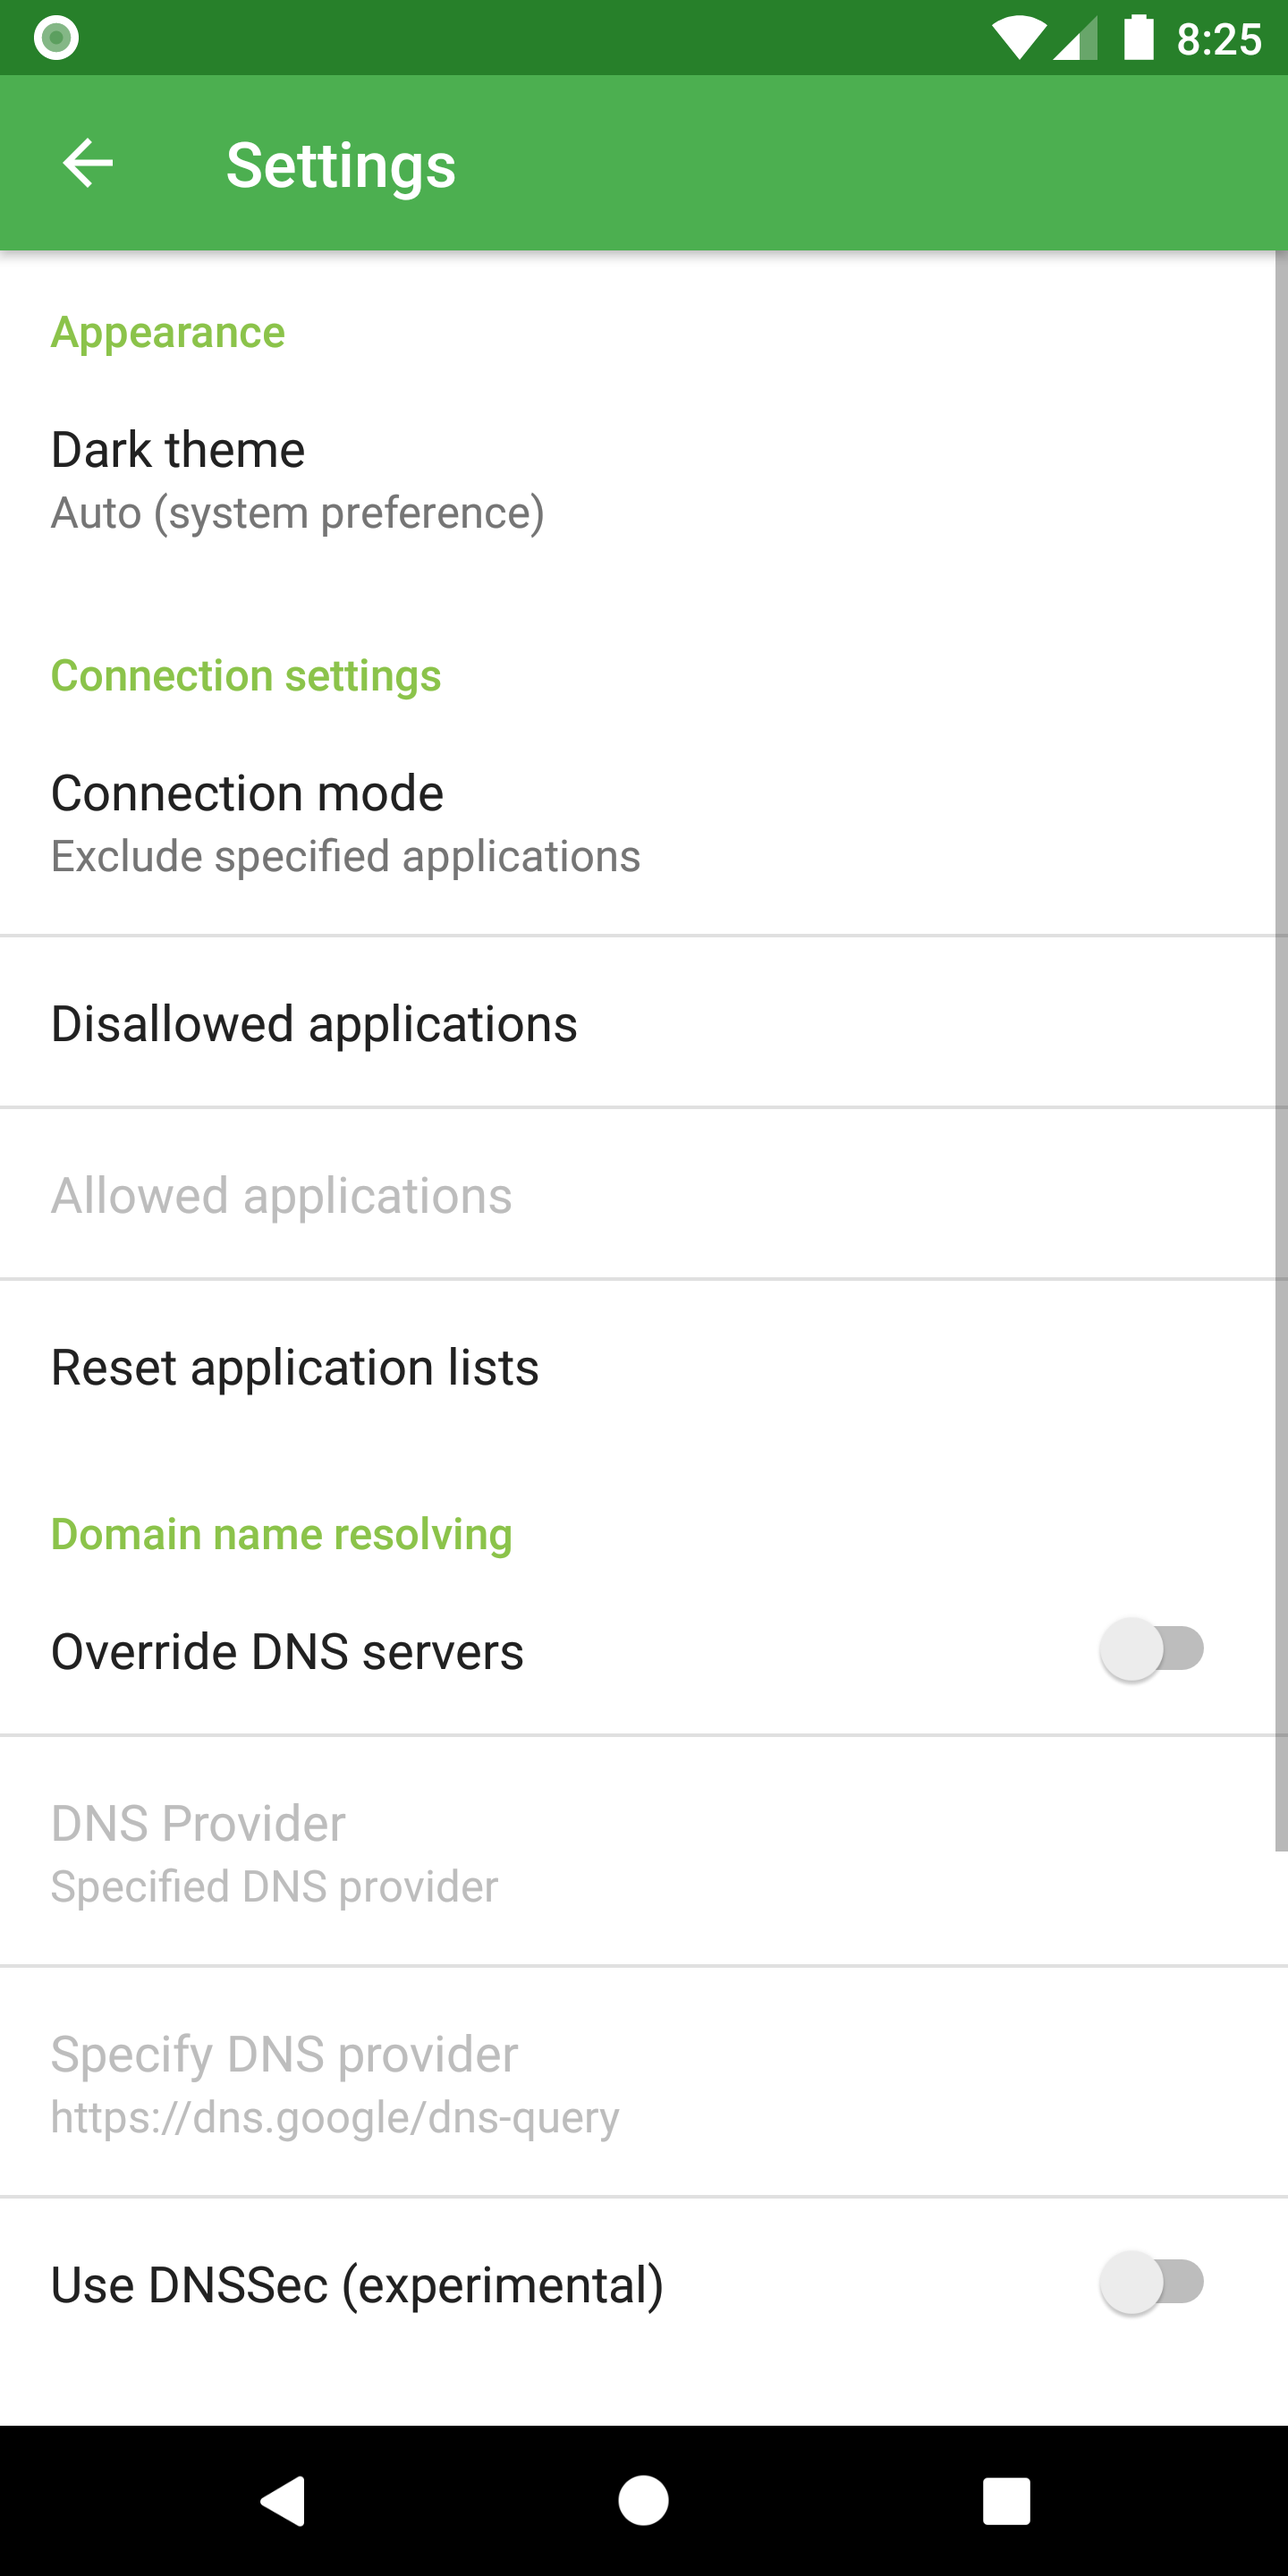
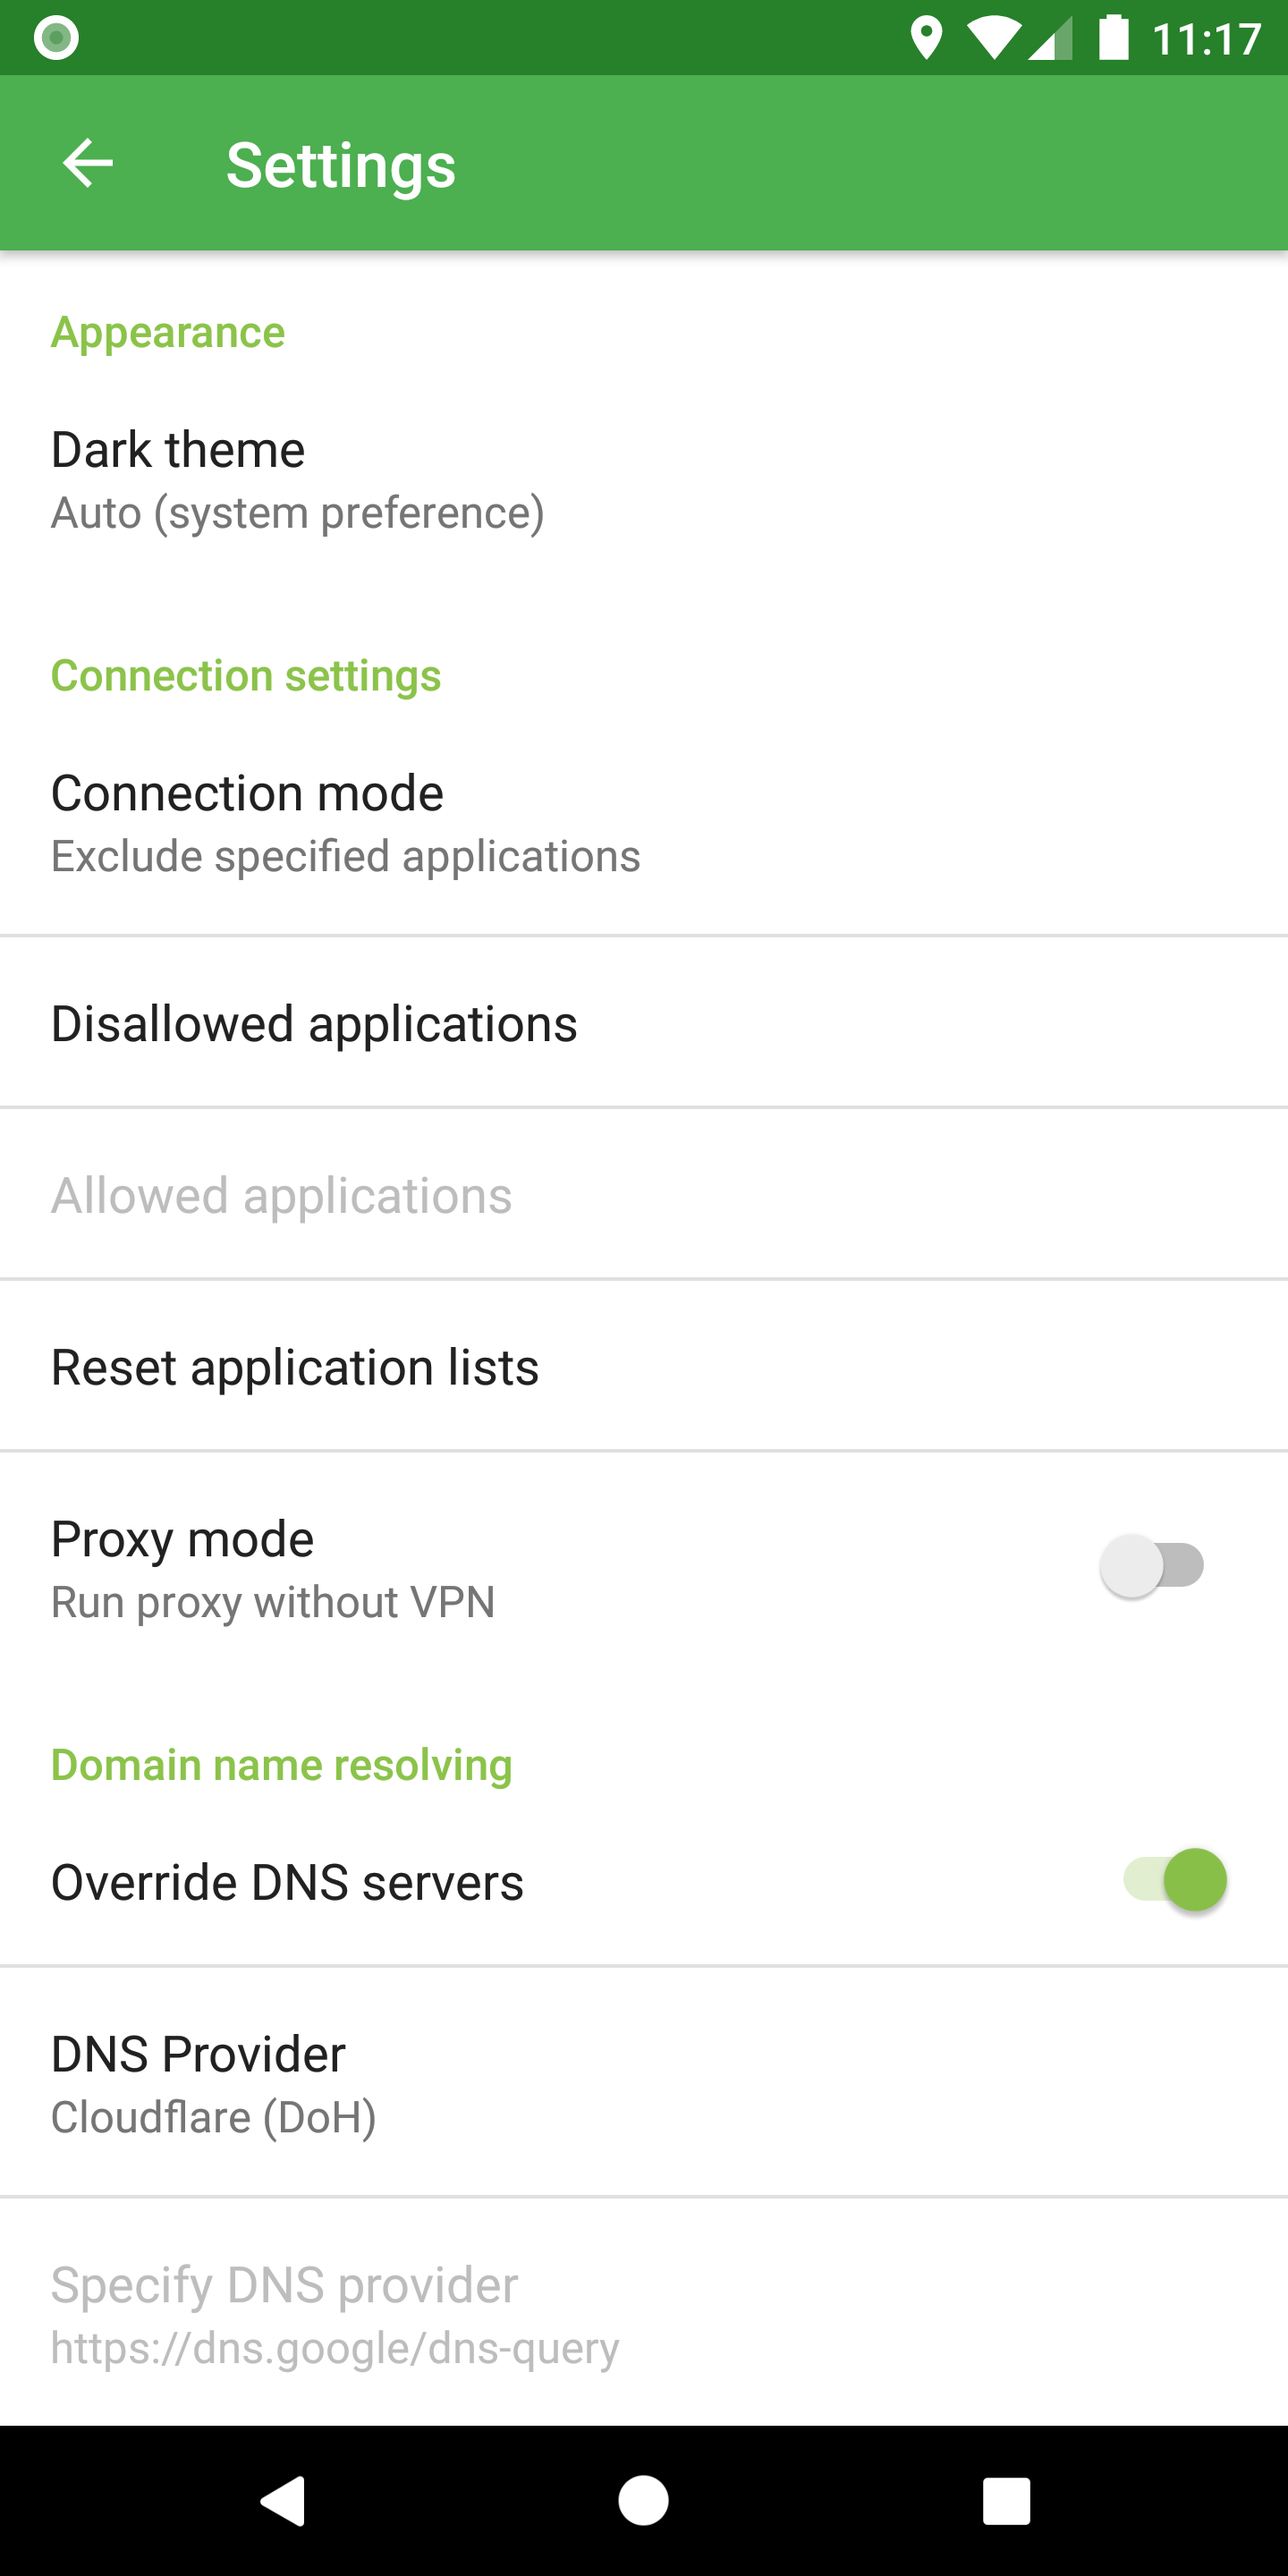
Bump version to 1.4

diff --git a/README.md b/README.md
@@ -22,7 +22,7 @@ Nowadays Internet censorship is introducing in many countries: governments analy
 
 PowerTunnel for Android is active DPI circumvention utility, that works only on your phone and don't send your traffic to third-party servers, respecting your privacy and do not slowing down your internet connection.
 
-Since PowerTunnel for Android uses the same architecture as the PC version, the Android version also uses proxy server - it lies under the VPN service and running at *127.0.0.1:8085*, so you can setup PowerTunnel in ways other than VPN.
+Since PowerTunnel for Android uses the same architecture as the PC version, the Android version also uses proxy server - it lies under the VPN service and running at *127.0.0.1:8085*, so you can setup PowerTunnel in ways other than VPN. Just enable proxy mode in the settings.
 
 ### How does it work?
 PowerTunnel for Android establishes a transparent proxy server on your phone and starts local VPN server, that forwards your traffic into the proxy server, where are DPI circumvention tricks applying.
